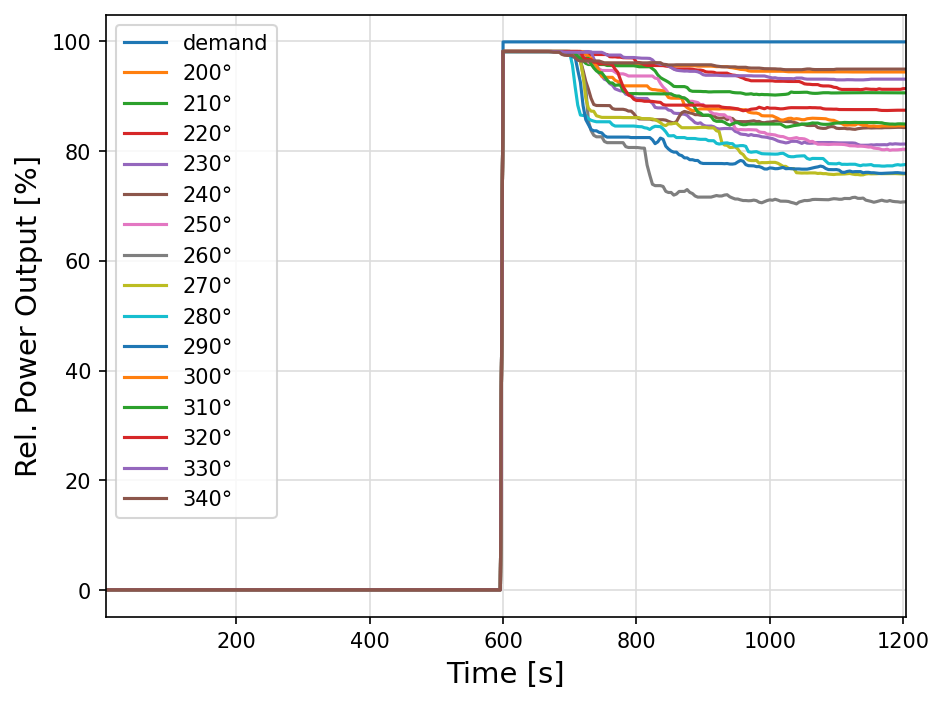
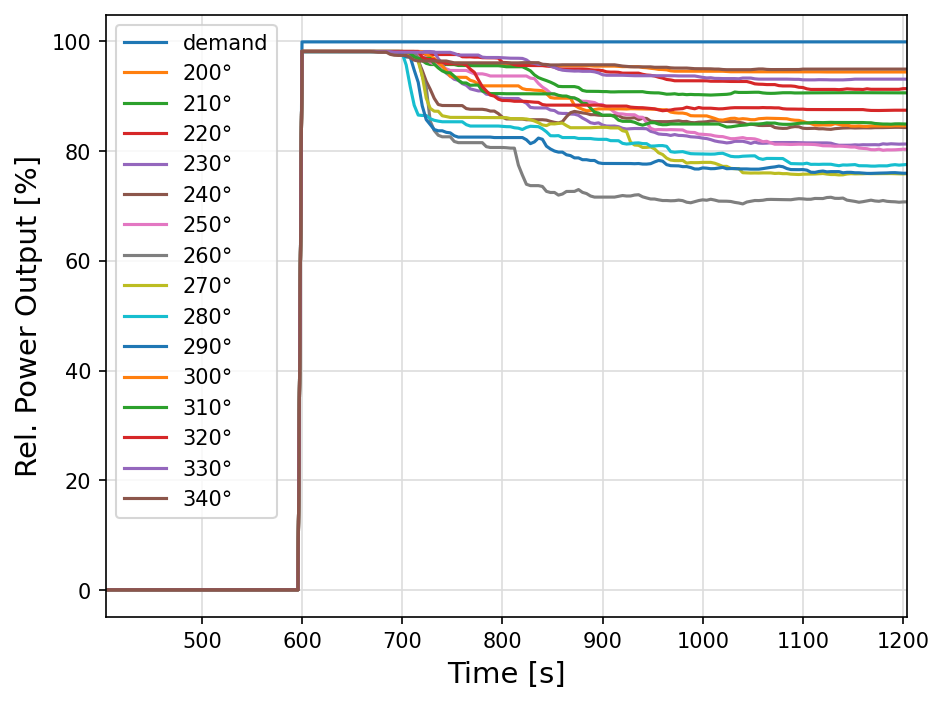
More progress

diff --git a/docs/src/step_response.md b/docs/src/step_response.md
@@ -2,6 +2,8 @@
 
 This test case can be used to estimate the peak power and integrated energy that a wind field can store to better meet the demand of the grid.
 
+## Test case for wind_dir = 270 degrees
+
 ![Step Response](step_response_wind_dir_270.0.png){ width=80% }
 
 ```
@@ -16,7 +18,9 @@ Extra power:          22.42%
 Storage time at full power: 50.96s
 ```
 
-## TODO
-- plot the step response for different wind directions
-- double check that peak power and final power are always calculated correctly
-- make sure the script document_examples creates the required png files by running the examples
+\newpage
+
+## Test with wind_dir = 200 .. 340 degrees
+
+![Step Response](step_response_all_wind_directions.png){ width=80% }
+
